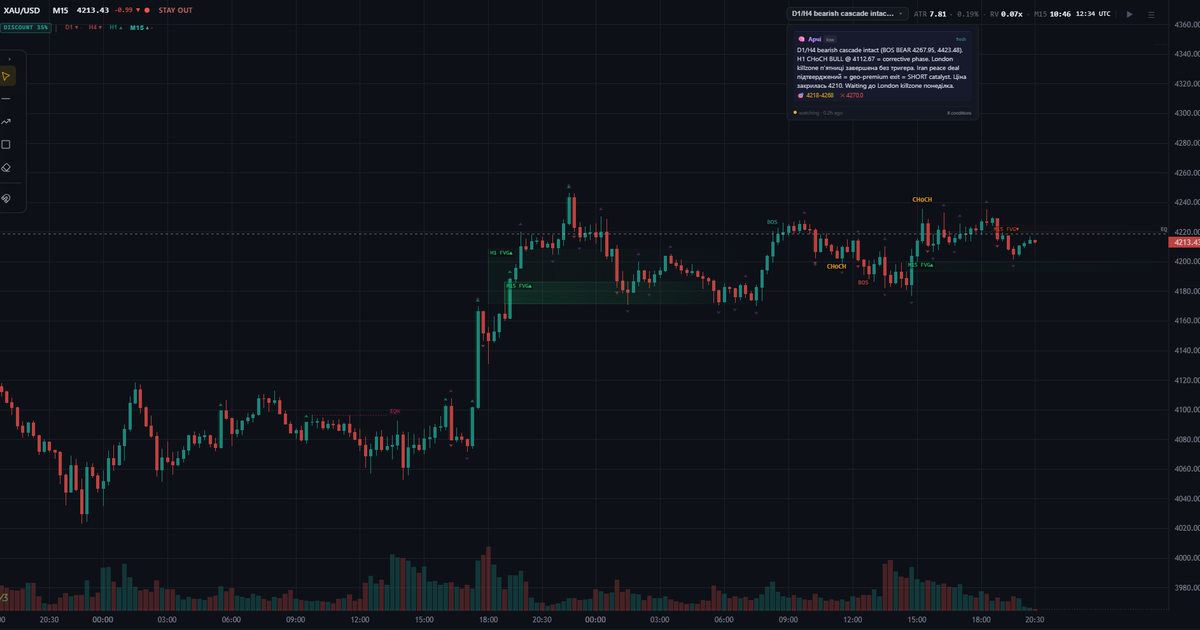
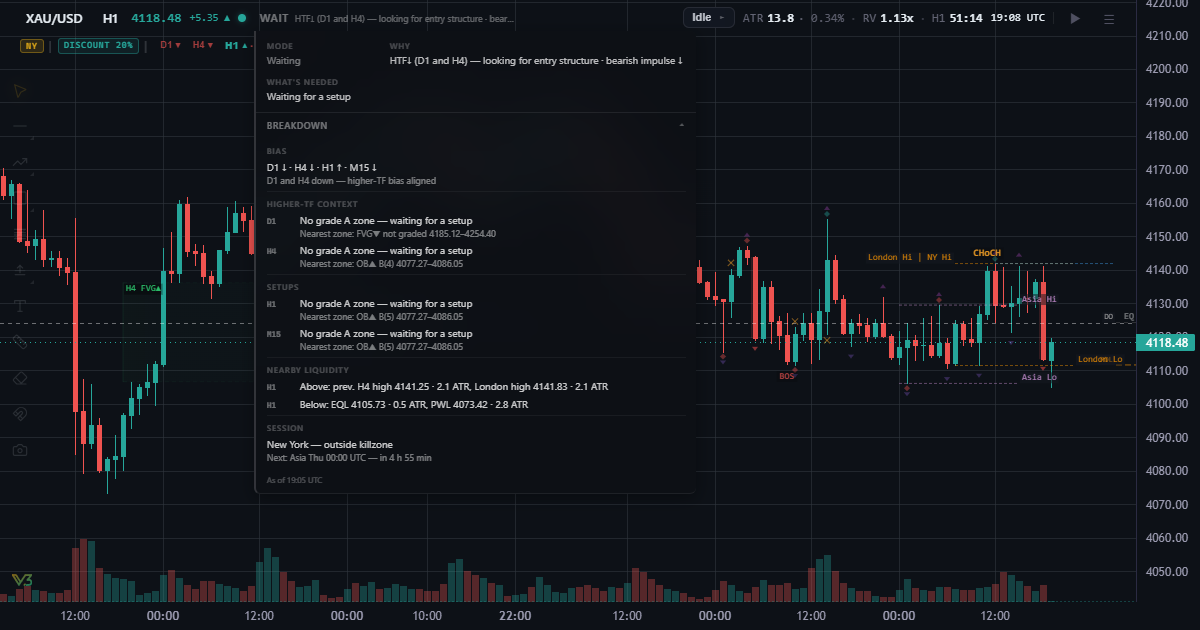
feat(i18n): прев'ю посилання мовою ?lang= — index.<код>.html на кожну мову, nginx за $arg_lang (ADR-0116 Ф3)
Власник 21.10: тексти прев'ю «так», без ?lang= — англійська, згадку про Арчі з прев'ю прибрати. Месенджери й
соцмережі сторінку не виконують — мова прев'ю лише в HTML: ui_v4/og/og_meta.json (тексти, локаль, картинка на мову)
→ плагін збірки ui_v4/og/ogVariants.ts пише dist/index.<код>.html і index.html мовою за замовчуванням (тег, якого нема
чи двічі, — помилка збірки); nginx `index index.$smc_og_lang.html index.html` з мапою $arg_lang (лише 2–3 малі
латинські літери) — tools/nginx/conf.d/smc_og_lang.conf. Картинки 1200×630 — знімки проду з «Розбором» своєю мовою
(og.png — en, og-uk.png, og-ru.png), без панелі Арчі; manifest без «agent-led»; старий опис згадував крипту, якої нема.
Тест: на кожну мову реєстру i18n — запис і картинка; варіант не міняє нічого, крім мета-тегів і <html lang>.

diff --git a/ui_v4/og/ogVariants.ts b/ui_v4/og/ogVariants.ts
@@ -1,0 +1,96 @@
+// ui_v4/og/ogVariants.ts
+// ADR-0116 Ф3: прев'ю посилання (Open Graph / Twitter) мовою посилання. Месенджери й соцмережі сторінку не виконують —
+// читають мета-теги HTML, тож мова прев'ю може бути лише в самому файлі. Після збірки плагін пише dist/index.<код>.html
+// на кожну мову з `og_meta.json` і dist/index.html мовою за замовчуванням; nginx віддає варіант за `?lang=`
+// (tools/nginx/conf.d/smc_og_lang.conf). Графік від варіанта не залежить: мову інтерфейсу обирає сам застосунок.
+// Тег, якого нема або який трапляється двічі, — помилка збірки, а не тихе англійське прев'ю (I5).
+
+import { readFileSync, writeFileSync } from 'node:fs';
+import { resolve } from 'node:path';
+import type { Plugin } from 'vite';
+
+export interface OgLang {
+    locale: string;
+    image: string;
+    title: string;
+    description: string;
+    image_alt: string;
+}
+
+export interface OgMeta {
+    site_url: string;
+    default: string;
+    langs: Record<string, OgLang>;
+}
+
+type MetaAttr = 'property' | 'name';
+
+/** Значення атрибута HTML: лапки й кутові дужки тексту не ламають розмітку. */
+function escapeAttr(value: string): string {
+    return value.replace(/&/g, '&amp;').replace(/"/g, '&quot;').replace(/</g, '&lt;').replace(/>/g, '&gt;');
+}
+
+function escapeRegExp(value: string): string {
+    return value.replace(/[.*+?^${}()|[\]\\]/g, '\\$&');
+}
+
+/** `<meta {attr}="{key}" content="…">` → новий content; тег має бути рівно один (атрибути можуть бути на різних рядках). */
+function setMeta(html: string, attr: MetaAttr, key: string, content: string): string {
+    const tag = new RegExp(`(<meta\\s+${attr}="${escapeRegExp(key)}"\\s+content=")[^"]*(")`, 'g');
+    const found = html.match(tag)?.length ?? 0;
+    if (found !== 1) {
+        throw new Error(`OG_VARIANT: <meta ${attr}="${key}"> у index.html — ${found} шт., має бути 1`);
+    }
+    return html.replace(tag, (_whole, head: string, tail: string) => `${head}${escapeAttr(content)}${tail}`);
+}
+
+function setHtmlLang(html: string, lang: string): string {
+    const tag = /<html\s+lang="[^"]*"/;
+    if (!tag.test(html)) throw new Error('OG_VARIANT: нема <html lang="…"> у index.html');
+    return html.replace(tag, `<html lang="${escapeAttr(lang)}"`);
+}
+
+/** Адреса сторінки мови: для мови за замовчуванням — корінь сайту, інакше `?lang=<код>` (саме її кладуть у пост). */
+export function pageUrl(meta: OgMeta, code: string): string {
+    return code === meta.default ? meta.site_url : `${meta.site_url}?lang=${encodeURIComponent(code)}`;
+}
+
+/** HTML сторінки мовою `code`: мета-теги прев'ю, опис і `<html lang>`. Решта файлу (скрипти збірки) — без змін. */
+export function renderOgVariant(html: string, meta: OgMeta, code: string): string {
+    const lang = meta.langs[code];
+    if (lang === undefined) throw new Error(`OG_VARIANT: мови ${code} нема в og_meta.json`);
+    const image = new URL(lang.image, meta.site_url).href;
+    let out = setHtmlLang(html, code);
+    out = setMeta(out, 'name', 'description', lang.description);
+    out = setMeta(out, 'property', 'og:locale', lang.locale);
+    out = setMeta(out, 'property', 'og:title', lang.title);
+    out = setMeta(out, 'property', 'og:description', lang.description);
+    out = setMeta(out, 'property', 'og:url', pageUrl(meta, code));
+    out = setMeta(out, 'property', 'og:image', image);
+    out = setMeta(out, 'property', 'og:image:alt', lang.image_alt);
+    out = setMeta(out, 'name', 'twitter:title', lang.title);
+    out = setMeta(out, 'name', 'twitter:description', lang.description);
+    out = setMeta(out, 'name', 'twitter:image', image);
+    return out;
+}
+
+/** Плагін збірки: після `vite build` — index.html мовою за замовчуванням і index.<код>.html на кожну мову. */
+export function ogVariants(metaFile: string): Plugin {
+    let outDir = '';
+    return {
+        name: 'v3-og-variants',
+        apply: 'build',
+        configResolved(config) {
+            outDir = resolve(config.root, config.build.outDir);
+        },
+        closeBundle() {
+            const meta = JSON.parse(readFileSync(metaFile, 'utf8')) as OgMeta;
+            const indexPath = resolve(outDir, 'index.html');
+            const built = readFileSync(indexPath, 'utf8');
+            for (const code of Object.keys(meta.langs)) {
+                writeFileSync(resolve(outDir, `index.${code}.html`), renderOgVariant(built, meta, code));
+            }
+            writeFileSync(indexPath, renderOgVariant(built, meta, meta.default));
+        },
+    };
+}

diff --git a/ui_v4/og/ogVariants.test.ts b/ui_v4/og/ogVariants.test.ts
@@ -1,0 +1,64 @@
+import { describe, expect, it } from 'vitest';
+import { existsSync, readFileSync } from 'node:fs';
+import { resolve } from 'node:path';
+import { pageUrl, renderOgVariant, type OgMeta } from './ogVariants';
+
+const UI_ROOT = resolve(__dirname, '..');
+const META = JSON.parse(readFileSync(resolve(__dirname, 'og_meta.json'), 'utf8')) as OgMeta;
+const INDEX = readFileSync(resolve(UI_ROOT, 'index.html'), 'utf8');
+const REGISTRY = JSON.parse(readFileSync(resolve(UI_ROOT, '..', 'i18n', 'languages.json'), 'utf8')) as {
+    languages: Array<{ code: string }>;
+};
+
+function metaContent(html: string, attr: 'property' | 'name', key: string): string | undefined {
+    return html.match(new RegExp(`<meta\\s+${attr}="${key}"\\s+content="([^"]*)"`))?.[1];
+}
+
+describe('прев\'ю посилання мовою ?lang= (ADR-0116 Ф3)', () => {
+    it('кожна мова реєстру i18n має текст прев\'ю і картинку в public/, мова за замовчуванням — серед них', () => {
+        const registered = REGISTRY.languages.map((language) => language.code).sort();
+        expect(Object.keys(META.langs).sort()).toEqual(registered);
+        expect(META.langs[META.default]).toBeDefined();
+        for (const [code, lang] of Object.entries(META.langs)) {
+            expect(existsSync(resolve(UI_ROOT, 'public', lang.image)), `${code}: ${lang.image}`).toBe(true);
+        }
+    });
+
+    it('варіант мови — її заголовок, опис, картинка, адреса з ?lang= і <html lang>', () => {
+        const html = renderOgVariant(INDEX, META, 'ru');
+        expect(html).toContain('<html lang="ru"');
+        expect(metaContent(html, 'property', 'og:title')).toBe(META.langs.ru.title);
+        expect(metaContent(html, 'property', 'og:description')).toBe(META.langs.ru.description);
+        expect(metaContent(html, 'name', 'twitter:description')).toBe(META.langs.ru.description);
+        expect(metaContent(html, 'name', 'description')).toBe(META.langs.ru.description);
+        expect(metaContent(html, 'property', 'og:locale')).toBe('ru_RU');
+        expect(metaContent(html, 'property', 'og:url')).toBe('https://aione-smc.com/?lang=ru');
+        expect(metaContent(html, 'property', 'og:image')).toBe('https://aione-smc.com/og-ru.png');
+        expect(metaContent(html, 'name', 'twitter:image')).toBe('https://aione-smc.com/og-ru.png');
+    });
+
+    it('мова за замовчуванням — корінь сайту без ?lang', () => {
+        const html = renderOgVariant(INDEX, META, META.default);
+        expect(metaContent(html, 'property', 'og:url')).toBe(META.site_url);
+        expect(pageUrl(META, META.default)).toBe(META.site_url);
+    });
+
+    it('решта сторінки не змінюється — лише мета-теги прев\'ю й <html lang>', () => {
+        const strip = (html: string) =>
+            html.replace(/<meta\s+(?:property|name)="[^"]*"\s+content="[^"]*"\s*\/?>/g, '').replace(/<html lang="[^"]*"/, '');
+        for (const code of Object.keys(META.langs)) {
+            expect(strip(renderOgVariant(INDEX, META, code))).toBe(strip(INDEX));
+        }
+    });
+
+    it('лапки й амперсанд у тексті не ламають атрибут', () => {
+        const meta: OgMeta = { ...META, langs: { ...META.langs, en: { ...META.langs.en, title: 'Gold & "silver" <x>' } } };
+        const html = renderOgVariant(INDEX, meta, 'en');
+        expect(metaContent(html, 'property', 'og:title')).toBe('Gold &amp; &quot;silver&quot; &lt;x&gt;');
+    });
+
+    it('тегу прев\'ю нема — помилка збірки, а не тихий пропуск', () => {
+        const broken = INDEX.replace(/<meta\s+property="og:locale"\s+content="[^"]*"\s*\/>/, '');
+        expect(() => renderOgVariant(broken, META, 'uk')).toThrow(/og:locale/);
+    });
+});

diff --git a/ui_v4/index.html b/ui_v4/index.html
@@ -1,5 +1,5 @@
 <!DOCTYPE html>
-<html lang="uk">
+<html lang="en">
 
 <head>
     <meta charset="UTF-8" />
@@ -7,24 +7,26 @@
          user-scalable=no kills accidental pinch-zoom on chart canvas. -->
     <meta name="viewport" content="width=device-width, initial-scale=1.0, maximum-scale=1.0, user-scalable=no, viewport-fit=cover" />
     <meta name="description"
-        content="v3 SMC Trading Platform — real-time institutional order flow analysis, Smart Money Concepts overlay, multi-timeframe charts" />
-    <!-- Open Graph + Twitter cards — social-share preview (X / Discord / Telegram /
-         LinkedIn). og.png is a 1200x630 crop of the live chart, served from dist root. -->
+        content="A free SMC chart in your browser: order blocks, FVG, liquidity, Asia / London / New York sessions, a plain-language breakdown on every timeframe, weekly and monthly profiles. Gold, silver, indices, USD/JPY. Phone and desktop, no sign-up." />
+    <!-- Open Graph + Twitter cards — прев'ю посилання (Telegram / X / Discord / Facebook). Тексти й картинка мовою
+         посилання ?lang= — з ui_v4/og/og_meta.json: збірка пише dist/index.<код>.html (ui_v4/og/ogVariants.ts),
+         nginx віддає варіант за ?lang=; тут — мова за замовчуванням (en). ADR-0116 Ф3. -->
     <meta property="og:type" content="website" />
     <meta property="og:site_name" content="v3" />
-    <meta property="og:title" content="v3 — SMC trading platform" />
+    <meta property="og:locale" content="en_US" />
+    <meta property="og:title" content="v3 — SMC chart" />
     <meta property="og:description"
-        content="Real-time Smart Money Concepts analytics for gold, indices &amp; crypto — a broker-grade pipeline feeding a live WebSocket chart, paired with Archi, an autonomous Claude trading agent that writes its own market thesis." />
+        content="A free SMC chart in your browser: order blocks, FVG, liquidity, Asia / London / New York sessions, a plain-language breakdown on every timeframe, weekly and monthly profiles. Gold, silver, indices, USD/JPY. Phone and desktop, no sign-up." />
     <meta property="og:url" content="https://aione-smc.com/" />
     <meta property="og:image" content="https://aione-smc.com/og.png" />
     <meta property="og:image:width" content="1200" />
     <meta property="og:image:height" content="630" />
     <meta property="og:image:alt"
-        content="v3 — live XAU/USD chart with SMC markup (FVG, BOS, CHoCH) and Archi's autonomous market thesis" />
+        content="v3 — XAU/USD chart with SMC markup and a breakdown of the current setup" />
     <meta name="twitter:card" content="summary_large_image" />
-    <meta name="twitter:title" content="v3 — SMC trading platform" />
+    <meta name="twitter:title" content="v3 — SMC chart" />
     <meta name="twitter:description"
-        content="Live SMC analytics for gold, indices &amp; crypto + Archi, an autonomous Claude trading agent that reasons, remembers, and decides for itself." />
+        content="A free SMC chart in your browser: order blocks, FVG, liquidity, Asia / London / New York sessions, a plain-language breakdown on every timeframe, weekly and monthly profiles. Gold, silver, indices, USD/JPY. Phone and desktop, no sign-up." />
     <meta name="twitter:image" content="https://aione-smc.com/og.png" />
     <!-- Mobile chrome blend: address bar + notification bar paint with our
          dark background, visually merging into the chart UI. Without full

diff --git a/ui_v4/vite.config.ts b/ui_v4/vite.config.ts
@@ -2,6 +2,7 @@ import { defineConfig, searchForWorkspaceRoot } from 'vite';
 import { svelte } from '@sveltejs/vite-plugin-svelte';
 import { readFileSync } from 'node:fs';
 import { resolve } from 'node:path';
+import { ogVariants } from './og/ogVariants';
 
 // ADR-0066 PATCH 04: build-time metadata for AboutModal version line.
 // All readers are pure-fs (no shell exec) so safe from injection.
@@ -39,7 +40,8 @@ export default defineConfig(() => {
     const alertsTarget = process.env.VITE_ALERTS_PROXY_TARGET ?? 'http://localhost:8020';
     const alertsOrigin = process.env.VITE_ALERTS_SITE_ORIGIN ?? 'https://aione-smc.com';
     return {
-        plugins: [svelte()],
+        // ADR-0116 Ф3: прев'ю посилання мовою ?lang= — dist/index.<код>.html після збірки
+        plugins: [svelte(), ogVariants(resolve('og', 'og_meta.json'))],
         define: {
             __APP_VERSION__: JSON.stringify(readVersion()),
             __BUILD_DATE__: JSON.stringify(buildDate()),

diff --git a/docs/adr/ADR-0116-i18n-language-layer.md b/docs/adr/ADR-0116-i18n-language-layer.md
@@ -370,3 +370,18 @@ OG/Twitter, PWA manifest — варіанти `index.html` і `manifest` на м
   однакові з точністю до «попер.» → «поп.» (335 блоків його містили). Ціну з тексту журнал бере регуляркою
   (`runtime/smc/signal_journal.py`), від слова перед TF вона не залежить; тест — і для «поп.», і для старих
   рядків журналу з «попер.».
+- 2026-10-21 — Ф1+Ф2 на проді (04:11 UTC, changelog 20261021-002).
+- 2026-10-21 — Ф3 OG (прев'ю посилання мовою посилання). Власник: тексти прев'ю «так», без `?lang=` — англійська,
+  згадку про Арчі з прев'ю прибрати («ми не тіло AI-агента», 10.10). Месенджери й соцмережі сторінку не виконують,
+  тож мова прев'ю може бути лише в самому HTML:
+  - тексти, локаль і картинка на мову — `ui_v4/og/og_meta.json` (окремо від словників `i18n/`: тест паритету
+    дозволяє там рівно ключі коду); новий запис обов'язковий для кожної мови реєстру (`ui_v4/og/ogVariants.test.ts`);
+  - плагін збірки `ui_v4/og/ogVariants.ts` пише `dist/index.<код>.html` на кожну мову і `dist/index.html` мовою за
+    замовчуванням; тег прев'ю, якого нема чи який двічі, — помилка збірки;
+  - nginx: `index index.$smc_og_lang.html index.html;`, мапа `$arg_lang` → код (лише 2–3 малі латинські літери, тож у
+    шлях нічого іншого не потрапляє) — `tools/nginx/conf.d/smc_og_lang.conf`; мови без файлу — `index.html`;
+    нова мова nginx не потребує;
+  - картинки 1200×630 — знімки проду з «Розбором» своєю мовою (`og.png` — en, `og-uk.png`, `og-ru.png`), без панелі
+    Арчі; опис у `manifest.json` нейтральний, без «agent-led»;
+  - графік від варіанта не залежить: мову інтерфейсу обирає застосунок (`?lang=` → вибір → мова браузера).
+  Відкрите Ф3: сповіщення мовою пристрою, About/Credits, `offline.html`.
